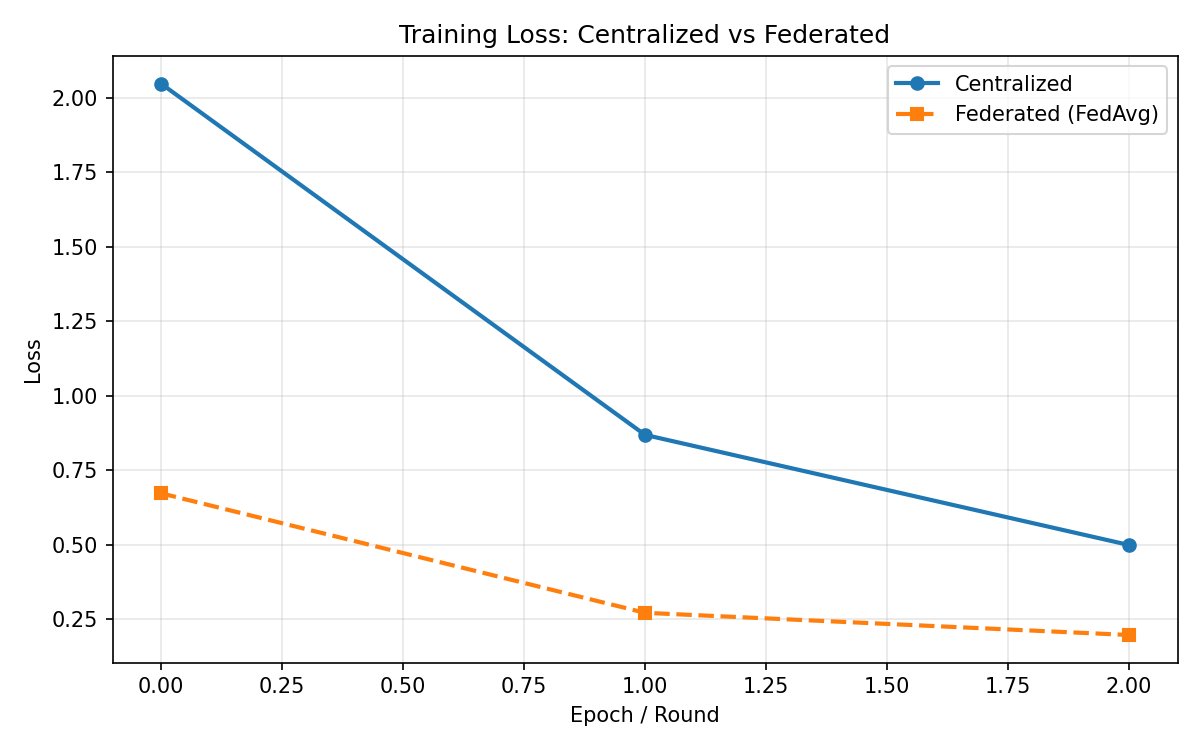
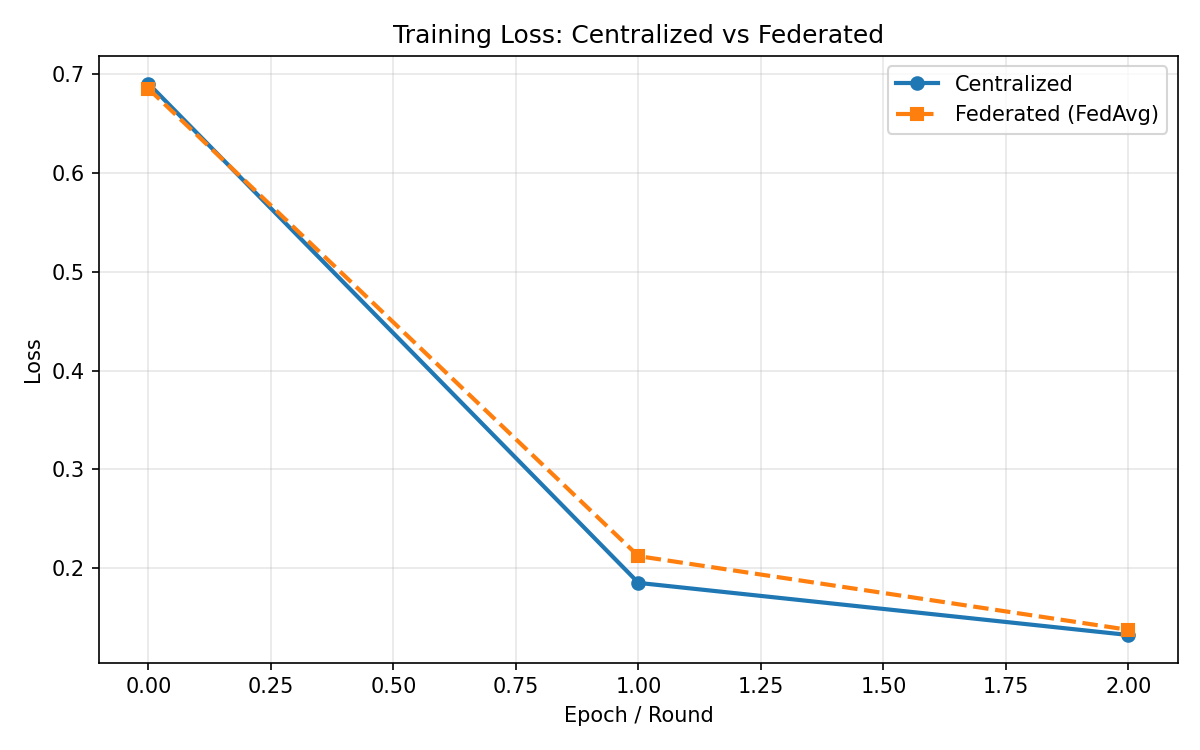
refactored lr parameter inside functions

diff --git a/src/client_training.py b/src/client_training.py
@@ -69,10 +69,10 @@ def aggregate(number_of_samples, client_state_dictionary, global_model):
 
 
 # helper function for running ML algorithms
-def run_centralised_ml(number_of_epochs, train_loader, val_loader, test_loader, model):
+def run_centralised_ml(number_of_epochs, train_loader, val_loader, test_loader, model, lr):
     start_time = time.time()
     # do training
-    _, losses, val_accuracies = train_local( model, train_loader, val_loader, number_of_epochs, 0.01)
+    _, losses, val_accuracies = train_local( model, train_loader, val_loader, number_of_epochs, lr)
     test_accuracy = evaluate_model(test_loader, model, True)
     end_time = time.time()
     print(f"Total training time: {end_time-start_time:.2f} seconds")
@@ -82,7 +82,7 @@ def run_centralised_ml(number_of_epochs, train_loader, val_loader, test_loader, 
     return losses, val_accuracies
 
 # helper function for running FL algorithms
-def run_fl(number_of_rounds, number_of_clients, epochs, global_model, client_training_loaders, val_loader, test_loader):
+def run_fl(number_of_rounds, number_of_clients, epochs, global_model, client_training_loaders, val_loader, test_loader, lr):
     global_losses = []  # avg client loss per round
     global_val_accuracies = []  # global model val accuracy per round
     start_time = time.time()
@@ -97,7 +97,7 @@ def run_fl(number_of_rounds, number_of_clients, epochs, global_model, client_tra
             print(f"Client{client + 1}:")
             local_model = copy.deepcopy(global_model)  # copy global model locally
             weights, losses, _ = train_local(model=local_model, train_loader=client_training_loaders[client],
-                                             number_of_epochs=epochs, lr=0.1)  # train it
+                                             number_of_epochs=epochs, lr=lr)  # train it
             client_state_dictionary.append(weights)  # store the weights
             number_of_samples.append(len(client_training_loaders[client].dataset))  # store number of samples
             round_losses.append(sum(losses) / len(losses))  # avg over epochs for this client

diff --git a/src/overlay/comparison_overlay.py b/src/overlay/comparison_overlay.py
@@ -35,8 +35,9 @@ model = CNN()
 NUMBER_OF_CLIENTS = 5
 NUMBER_OF_EPOCHS = 3
 NUMBER_OF_ROUNDS = 3
-DIRICHLET_ALPHA = 0.05
+DIRICHLET_ALPHA = 1
 BATCH_SIZE = 64
+LR = 0.03
 # %%
 # Data Loaders
 client_training_loaders = create_dirichlet_client_loaders(number_of_clients = NUMBER_OF_CLIENTS,
@@ -55,7 +56,8 @@ central_losses, central_val_accs  =  run_centralised_ml(number_of_epochs = NUMBE
                                                       train_loader = train_loader,
                                                       val_loader = val_loader,
                                                       test_loader = test_loader,
-                                                      model = model)
+                                                      model = model,
+                                                      lr = LR)
 
 # Now we need to aggregate the results with FedAvg
 fed_losses, fed_val_accs        =       run_fl(number_of_rounds = NUMBER_OF_ROUNDS,
@@ -64,7 +66,8 @@ fed_losses, fed_val_accs        =       run_fl(number_of_rounds = NUMBER_OF_ROUN
                                               global_model = gl_model,
                                               client_training_loaders = client_training_loaders,
                                               val_loader = val_loader,
-                                              test_loader = test_loader)
+                                              test_loader = test_loader,
+                                              lr = LR)
 
 # PLOTS
 plot_loss_overlay(central_losses, fed_losses) # loss comparison between ML and FL
